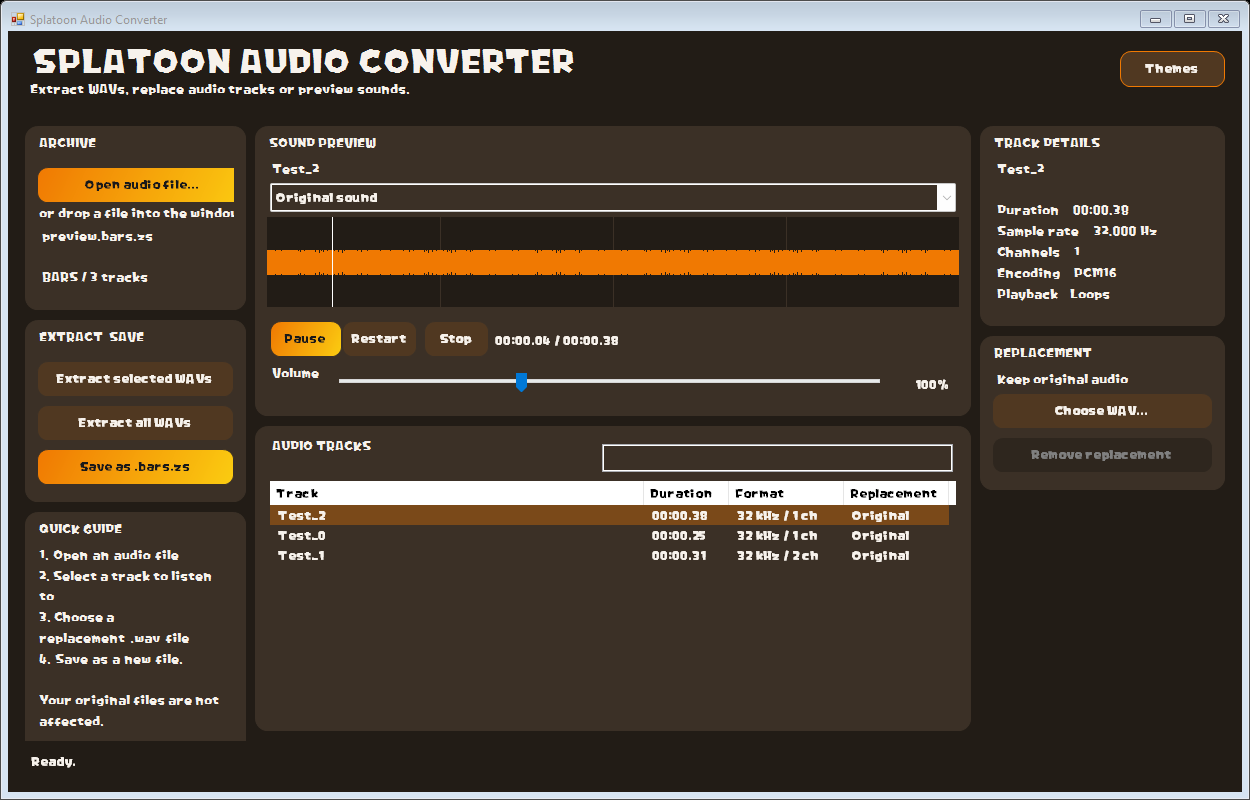
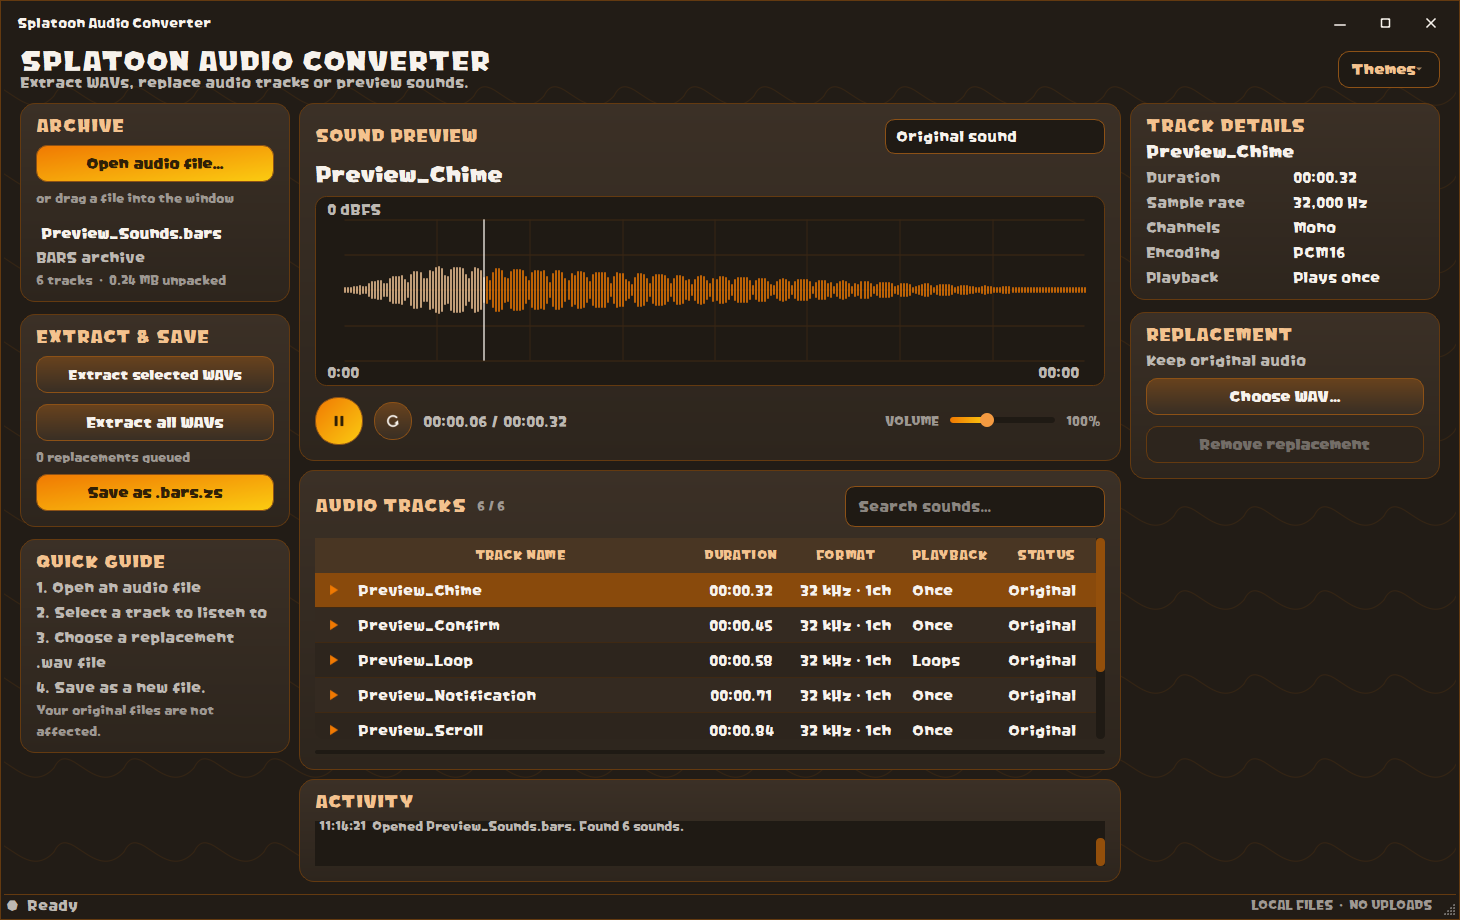
Restore original v2.4.2 interface and slim packaging without changing the app

diff --git a/scripts/repack_original.py b/scripts/repack_original.py
@@ -1,0 +1,51 @@
+"""Create a smaller copy of an existing working v2.4.2 portable folder.
+
+Never edit the baseline. The executable, application code, UI, font, audio
+helpers and retained runtime files are copied byte-for-byte and verified.
+"""
+import argparse
+import hashlib
+from pathlib import Path
+import shutil
+
+from runtime_layout import omit_runtime
+
+
+def digest(path):
+    return hashlib.sha256(path.read_bytes()).digest()
+
+
+def main():
+    parser = argparse.ArgumentParser(description=__doc__)
+    parser.add_argument("source", type=Path)
+    parser.add_argument("destination", type=Path)
+    args = parser.parse_args()
+    source, destination = args.source.resolve(), args.destination.resolve()
+    if source == destination or source in destination.parents or destination in source.parents:
+        raise SystemExit("Use separate, non-nested source and destination folders.")
+    if destination.exists():
+        raise SystemExit("Destination already exists. Choose a new folder; nothing was overwritten.")
+    if not (source / "Splatoon Audio Converter.exe").is_file():
+        raise SystemExit("Choose the working portable application folder.")
+    original = {path.relative_to(source): digest(path) for path in source.rglob("*") if path.is_file()}
+    removed = 0
+    for relative, before in original.items():
+        path = source / relative
+        if omit_runtime(relative):
+            removed += path.stat().st_size
+            continue
+        target = destination / relative
+        target.parent.mkdir(parents=True, exist_ok=True)
+        shutil.copy2(path, target)
+        if digest(target) != before:
+            raise RuntimeError("A retained file changed during copying.")
+    if any(digest(source / relative) != before for relative, before in original.items()):
+        raise RuntimeError("The baseline changed during copying.")
+    total = sum(path.stat().st_size for path in destination.rglob("*") if path.is_file())
+    print(f"PASS: baseline unchanged; every retained file is byte-identical.")
+    print(f"Omitted {removed / 1024**2:.1f} MiB of unused optional runtime components.")
+    print(f"Portable folder: {total / 1024**2:.1f} MiB. UI, font and audio engine unchanged.")
+
+
+if __name__ == "__main__":
+    main()

diff --git a/tests/test_runtime_layout.py b/tests/test_runtime_layout.py
@@ -1,0 +1,25 @@
+import sys
+from pathlib import Path
+import unittest
+
+sys.path.insert(0, str(Path(__file__).resolve().parents[1] / "scripts"))
+from runtime_layout import omit_runtime
+
+
+class RuntimeLayoutTests(unittest.TestCase):
+    def test_keep_interface_and_audio_dependencies(self):
+        for name in ("Splatoon Audio Converter.exe", "_internal/Qt6Core.dll", "_internal/Qt6Gui.dll",
+                     "_internal/Qt6Widgets.dll", "_internal/Qt6Multimedia.dll", "_internal/Qt6Network.dll",
+                     "_internal/PySide6/plugins/platforms/qwindows.dll",
+                     "_internal/PySide6/plugins/multimedia/windowsmediaplugin.dll",
+                     "_internal/numpy.libs/libscipy_openblas64.dll",
+                     "_internal/splatoon_audio_converter/assets/fonts/NinDev-Treasure_00.ttf"):
+            self.assertFalse(omit_runtime(name), name)
+
+    def test_omit_only_optional_components(self):
+        for name in ("_internal/icudt78.dll", "_internal/PySide6/opengl32sw.dll",
+                     "_internal/Qt6Quick.dll", "_internal/Qt6QmlModels.dll", "_internal/Qt6Pdf.dll",
+                     "_internal/PySide6/plugins/multimedia/ffmpegmediaplugin.dll",
+                     "_internal/PySide6/plugins/platforminputcontexts/qtvirtualkeyboardplugin.dll",
+                     "_internal/avcodec-63.dll", "_internal/PySide6/plugins/imageformats/qpdf.dll"):
+            self.assertTrue(omit_runtime(name), name)

diff --git a/scripts/runtime_layout.py b/scripts/runtime_layout.py
@@ -1,0 +1,23 @@
+"""Conservative packaging-only exclusions for the unchanged Qt Widgets app.
+
+Keep Python, NumPy, the original interface/font and Windows PCM audio backend.
+Omit plugins used only for video, PDF, QML/virtual keyboards and 3D rendering.
+Qt 6.12 uses Windows' system ICU API, not an unrelated bundled ICU data file.
+"""
+import re
+
+
+def omit_runtime(relative):
+    name = str(relative).replace("\\", "/").lower()
+    leaf = name.rsplit("/", 1)[-1]
+    return (
+        bool(re.fullmatch(r"icu(?:dt|in|uc)\d*\.dll", leaf))
+        or leaf == "opengl32sw.dll"
+        or leaf in {"qt6pdf.dll", "qt6opengl.dll", "qt6virtualkeyboard.dll",
+                    "qt6multimediawidgets.dll", "ffmpegmediaplugin.dll", "qpdf.dll"}
+        or leaf.startswith(("qt6quick", "qt6qml"))
+        or bool(re.fullmatch(r"(?:avcodec|avformat|avutil|swscale|swresample)-\d+\.dll", leaf))
+        or "/plugins/platforminputcontexts/" in name
+        or "/plugins/generic/" in name
+        or ("/plugins/platforms/" in name and leaf not in {"qwindows.dll", "qoffscreen.dll"})
+    )

diff --git a/README.md b/README.md
@@ -2,28 +2,35 @@
 
 Extract WAVs, replace audio tracks or preview sounds.
 
-Version 3 rebuilds the desktop app using Windows Forms, a lightweight waveform
-renderer and Windows audio output. The portable folder is about **1 MB**, not
-80 MB. Both the download and extracted app are checked against a **20 MiB limit**.
-No Python, NumPy, Qt, FFmpeg or web-browser runtime is bundled or required.
+The supported app is the original **v2.4.2 Qt interface**, including its supplied
+font, rounded controls, waveform, title bar, themes and audio engine. The native
+v3 rewrite is withdrawn from the recommended download; `native-app/` is retained
+only as an unused experiment. It is not the default build.
 
-[Download](https://github.com/qrazyi/splatoon-audio-converter/releases/latest)
-· [Report an issue](https://github.com/qrazyi/splatoon-audio-converter/issues)
+[Download smaller original version](https://github.com/qrazyi/splatoon-audio-converter/releases/download/v2.4.2/Splatoon-Audio-Converter-v2.4.2-smaller-win-x64.zip)
+· [Issues](https://github.com/qrazyi/splatoon-audio-converter/issues)
 
-![Dorfic theme](docs/preview.png)
+![Original interface](docs/preview.png)
 
-## Run
+## Smaller package, same application
 
-Extract the entire ZIP and open **Splatoon Audio Converter.exe**. Keep its small
-`_internal` folder beside it. There is no installer, updater, GitHub button,
-telemetry or network access. The app does not need administrator privileges.
+The smaller v2.4.2 package is about **45 MB to download / 116 MB extracted**,
+compared with the previous 84 MB ZIP / 212 MB folder. This is a packaging change,
+not a UI rewrite or a new audio engine. It omits unused video/PDF/QML/virtual
+keyboard/3D components and orphaned ICU data. Python, NumPy, Qt Widgets, the
+custom font and the Windows PCM audio backend remain included.
 
-Windows 10/11 **x64** with **.NET Framework 4.8** is required. It is already part
-of most current Windows installations; install Microsoft's runtime if missing.
-The download relies on that Windows runtime to stay small. It is not a
-self-contained runtime bundle or a macOS/Linux application.
+The repack script preserves the baseline folder and verifies that every retained
+file, including the EXE, is byte-identical. The original v2.4.2 folder is never
+modified. Newly built releases use the same packaging exclusions.
 
-## Use
+## Run / use
+
+Extract the **whole ZIP**, then run **Splatoon Audio Converter.exe**. Keep
+`_internal` beside it. Windows 10/11 x64 is supported. No Python, Switch Toolbox
+or external media player needs to be installed. The Nintendo helpers need .NET
+Framework 4.8, normally already present on Windows. Required runtime DLLs and
+license notices are included.
 
 1. Open an audio file
 2. Select a track to listen to
@@ -32,92 +39,58 @@ self-contained runtime bundle or a macOS/Linux application.
 
 Your original files are not affected.
 
-Supported inputs: `.bars`, `.bars.zs`, `.bwav`, `.bwav.zs`, `.bfstm`, `.bfstm.zs`.
-Drag/drop, track filtering, duration/channel details, waveform seeking,
-play/pause, immediate restart, extraction and replacement previews are included.
-Extraction creates **WAVs only**, never a manifest or sidecar JSON.
+Inputs: `.bars`, `.bars.zs`, `.bwav`, `.bwav.zs`, `.bfstm`, `.bfstm.zs`.
+Replacement: mono/stereo 16-bit PCM WAV. Sample rate/channels are matched on
+export, loops retain their relative position, and extensions are added once.
+Extraction creates WAVs only, with no manifest or JSON sidecars. Multichannel
+music previews its first stereo pair; extracted WAVs retain all channels.
+Replacement of multichannel music is not supported. Older FWAV/FSTP archives
+remain preview/extract-only.
 
-Replacement WAVs must be uncompressed **16-bit PCM**, mono or stereo. Sample
-rate and channel count are matched automatically. Existing loops retain their
-relative position. Preview volume supports **0–300%**, with smooth gain changes
-on a separate audio worker; it does not change saved/extracted audio. Boosting
-loud tracks can clip. Restart immediately starts playing again, even if paused.
+Preview volume is 0–300%, using the existing independent audio worker and smooth
+gain ramps. Loud sounds can clip. The restart button immediately replays even
+when paused. Click the waveform to seek. Shortcuts: Ctrl+O open, Space play/pause,
+Ctrl+R restart, Ctrl+Shift+S save a new file.
 
-BARS saves as `.bars.zs`. Standalone BWAV/BFSTM retains its format/compression.
-The extension is added once, even if the selected name already has it. The
-original input cannot be overwritten. Other existing output files require
-confirmation; saves are built and validated before replacing the destination.
+Themes are unchanged: Aqua, Beige, Dark Aero, Dorfic (default), Eco. No new UI
+design is applied. The app works offline, with no updater, uploads or GitHub button.
 
-Multichannel audio previews its **first stereo pair**; extraction retains every
-channel. Tracks with more than two channels, old FWAV/FSTP entries and short
-prefetches are preview/extract-only. Their untouched bytes are kept when other
-editable tracks in the archive are replaced. Prefetches contain only the opening
-portion of a sound. BWAV PCM16 and DSP-ADPCM are supported, not BWAV Opus.
-Files/decompressed archives over 512 MB are rejected.
+## Develop / package
 
-Shortcuts: **Ctrl+O** open, **Space** play/pause, **Ctrl+R** restart,
-**Ctrl+Shift+S** save a new game-audio file.
-
-## Themes
-
-Themes are alphabetically ordered: **Aqua, Beige, Dark Aero, Dorfic, Eco, Legacy**.
-Dorfic remains the default. Normal themes keep the supplied interface font,
-rounded controls and the existing accent colors. Native Windows window controls
-handle resizing/maximizing; title-bar colors apply where supported by Windows.
-
-**Legacy** uses a plain **black background, white text, system font, flat controls,
-no gradients and no Quick Guide**. It restores a simple original-style workbench
-without installing a second app. It does not remove any audio functionality.
-
-![Legacy theme](docs/legacy.png)
-
-Only the theme name is remembered in the current user's registry settings.
-Audio paths, track lists, volume preferences and recent files are not saved.
-
-## Build / test
-
-The native source is in `native-app/`. The earlier Python v2 implementation stays
-in this repository for reference; it is **not shipped in v3**. No NuGet install or
-Python setup is needed for native builds. Use Windows PowerShell with the .NET
-Framework C# compiler:
+Use Python 3.12 on Windows:
 
 ```powershell
-.\native-app\build.ps1
-.\native-app\test.ps1 -SkipBuild
-.\native-app\package.ps1
-.\native-app\smoke.ps1
+python -m pip install . pyinstaller
+python scripts/build_native.py
+$env:PYTHONPATH = "src"
+python -m unittest discover -s tests -p "test_*.py" -v
+python tests/smoke_ui.py
+python tests/smoke_playback.py
+python -m PyInstaller --noconfirm "Splatoon Audio Converter.spec"
+python scripts/smoke_frozen.py
+python scripts/check_privacy.py dist
+python scripts/package_release.py
+python scripts/smoke_frozen.py --zip dist/Splatoon-Audio-Converter-win-x64.zip
 ```
 
-Output: `native-app/dist/`. The source ZIP contains the native source, tests,
-build scripts and the small required dependencies, not old runtime bundles.
-Tests generate their own sounds; no game audio is included. Hardware playback
-checks run if an output endpoint exists; deterministic playback tests also run
-without hardware. Fresh-ZIP checks remove development/Python/Qt paths from the
-process environment and exercise every input extension plus multichannel music.
+To repack an existing working folder without rebuilding its EXE:
 
-The included codec is built with a static C runtime, so end users do not need a
-separate Visual C++ redistributable. To rebuild that dependency from its pinned,
-checksum-verified official source, run `native-app/build-codec.ps1` with CMake and
-Visual Studio C++ build tools installed. GitHub Actions does this automatically.
+```powershell
+python scripts/repack_original.py "path/to/working/folder" "path/to/new/folder"
+```
 
-GitHub Actions builds/tests normal pushes and pull requests. A `v*` tag publishes
-the portable ZIP, clean source ZIP and SHA-256 checksums. The app itself performs
-no update checks; download new releases manually.
+The destination must not exist. The script copies only retained files and
+verifies the baseline and copies by SHA-256. Development tests use generated
+sounds, not game assets. Public packaging excludes personal paths, settings,
+logs, private fonts, debug symbols and example game audio. Source ZIPs exclude
+build folders, caches and the unused native experiment.
 
-## Privacy / credits
+## Credits / licensing
 
-Public packaging uses an exact allowlist: one EXE, one codec DLL and essential
-license notices under `_internal/licenses`. It rejects extra files, settings,
-logs, debug symbols, test sounds and user-profile paths. The EXE has no embedded
-build-machine paths or PDB, and package ZIP metadata has no author records.
-Audio is processed locally in memory; previews create no temporary audio files.
-
-The UI arrangement is inspired by [HoianViewer by nvnprogram](https://github.com/nvnprogram/HoianViewer).
-No HoianViewer source code, art or font is included. Nintendo audio conversion
-uses [VGAudio](https://github.com/Thealexbarney/VGAudio) (MIT); compression uses
-[Zstandard](https://github.com/facebook/zstd) (BSD). Keep the included notices
-when sharing the app. The separately supplied NinDev-Treasure font is embedded
-for normal themes under its original terms, not relicensed by this project;
-see [font notes](fonts/README.md).
+UI arrangement inspired by [HoianViewer by nvnprogram](https://github.com/nvnprogram/HoianViewer).
+No HoianViewer code or assets are copied. The supplied NinDev-Treasure font is
+included under its original terms, separately from the app's MIT license.
+See [third-party notices](THIRD_PARTY_NOTICES.md) and [font notes](fonts/README.md).
+Keep required notices under `_internal/licenses` when redistributing.
 
 Application code: [MIT](LICENSE). Not affiliated with or endorsed by Nintendo.

diff --git a/THIRD_PARTY_NOTICES.md b/THIRD_PARTY_NOTICES.md
@@ -1,16 +1,9 @@
 # Third-party notices
 
-## Version 3 lightweight app
-
-The native version in `native-app/` ships VGAudio (MIT), Zstandard (BSD) and the
-separately supplied interface font. Its required notices are under
-`_internal/licenses`; Windows supplies .NET Framework, Windows Forms and WinMM.
-It does not ship Python, Qt, NumPy or FFmpeg. See `native-app/licenses/NOTICES.txt`.
-
-## Archived version 2 implementation
-
-The following component list describes the earlier Python/Qt build, whose source
-is retained here for reference. Those runtime components are not part of v3.
+The supported download uses the original Qt/Python application. The smaller
+package omits unused FFmpeg video backends and QML/PDF/3D components; it retains
+Python, Qt Widgets/Multimedia's Windows PCM backend, NumPy and the supplied font.
+The unused `native-app/` experiment is not part of this download.
 
 The desktop interface is an original implementation. Its custom styling and
 three-panel arrangement were inspired by HoianViewer by nvnprogram:
@@ -46,8 +39,8 @@ Runtime components:
 - **python-zstandard / Zstandard** — BSD/MIT licenses as described by upstream.
   Source: https://github.com/indygreg/python-zstandard
   Source: https://github.com/facebook/zstd
-- **FFmpeg libraries supplied with Qt Multimedia** — see the Qt package's
-  FFmpeg notices and applicable LGPL license. Source: https://ffmpeg.org/
+- **FFmpeg** — not included in the smaller package. Existing complete Qt license
+  bundles may still contain notices for it. Source: https://ffmpeg.org/
 - **charset-normalizer**, when collected by the build — MIT license; its
   notice is included in the runtime licenses folder.
   Source: https://github.com/jawah/charset_normalizer

diff --git a/CHANGELOG.md b/CHANGELOG.md
@@ -1,5 +1,17 @@
 # Changelog
 
+## v2.4.2 smaller repack — supported version
+
+- Restored the exact original v2.4.2 interface and audio engine. The native v3
+  rewrite is no longer the supported/recommended version.
+- Repacked the existing working folder without rebuilding or changing the EXE,
+  custom font, UI code, layout, controls, themes or audio helpers.
+- Removed unused optional video/PDF/QML/virtual-keyboard/3D components and orphan
+  ICU data: roughly 45 MB download instead of 84 MB. Expanded size is about 116 MB.
+- Verified every retained file byte-for-byte against the untouched baseline,
+  tested all audio formats from a fresh ZIP, and tested the live theme menu.
+- Applied the same conservative exclusions to future original-interface builds.
+
 ## 3.0.0
 
 - Rebuilt the main Windows app with lightweight native controls, GDI+ waveform

diff --git a/fonts/README.md b/fonts/README.md
@@ -1,9 +1,9 @@
 # Interface font
 
 The supplied NinDev-Treasure_00.ttf font is stored in
-`src/splatoon_audio_converter/assets/fonts`. Version 3 embeds it in the EXE for
-normal themes. Legacy uses only the Windows system font. Earlier v2 portable
-builds included it as a separate runtime asset.
+`src/splatoon_audio_converter/assets/fonts`. The supported original-interface
+build includes it as a runtime asset, unchanged from v2.4.2. Repacking does not
+remove or replace it.
 Its original copyright/terms remain unchanged; the project's MIT code license
 does not relicense the font.
 
